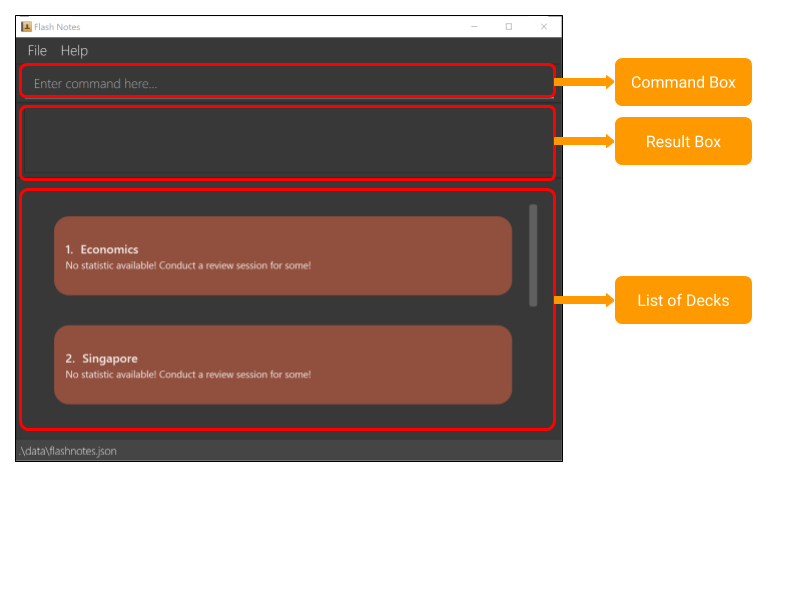
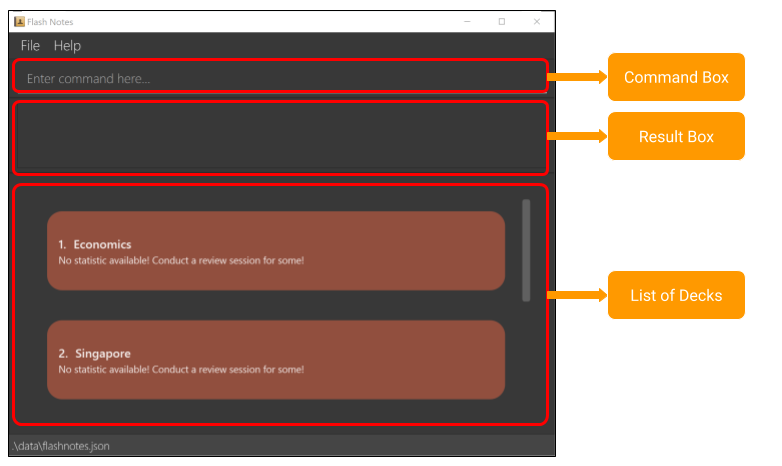
BugFix for Issue #228
- Crop image in UG: Quick Start
- Removed section link in UG: Quick Start

diff --git a/docs/UserGuide.md b/docs/UserGuide.md
@@ -94,7 +94,7 @@ Users can:
 
 1. Copy the file to the folder you want to use as the _home folder_ for your FlashNotes.
 
-1. Double-click the file to start the app. A view similar to the one below should appear in a few seconds.<br>
+1. Double-click the file to start the app. A view similar to the one below should appear in a few seconds. Note how FlashNotes contains some sample data after initial launch.<br>
    ![Figure 1: Initial View with GUI Details](images/UG_GUIDetails.png)<br>
    _Figure 2A: Initial View of FlashNotes with GUI component labels._
    
@@ -120,8 +120,7 @@ Users can:
 
 1. After executing each command, a success or failure message will be displayed in the **Result Box**. This will let you know if you have successfully executed the relevant commands or not. Given that you have provided the correct command prefixes, it can even provide additional information on why your command has failed.  <br>
 
-
-1. Refer to the [Features](#Main Mode Features) below for the details of each command.
+1. Refer to the **Features** section below for the details of each command.
 
 <div markdown="block" class="alert alert-info">
    
